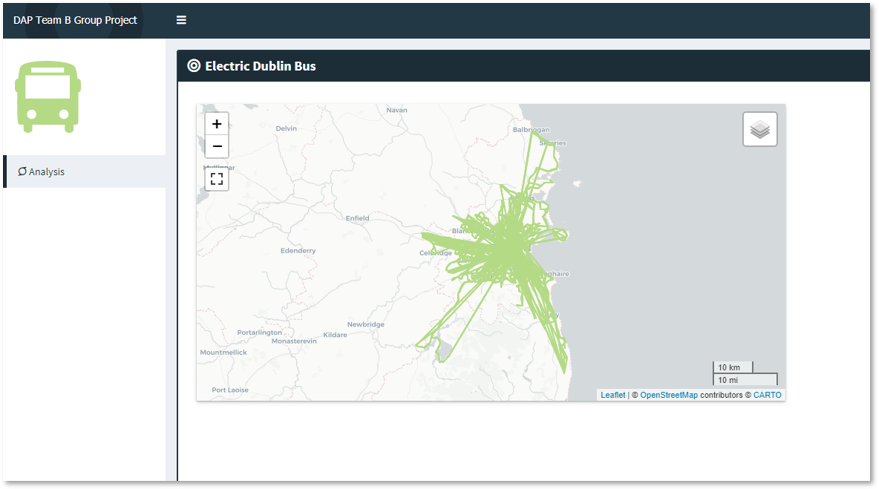
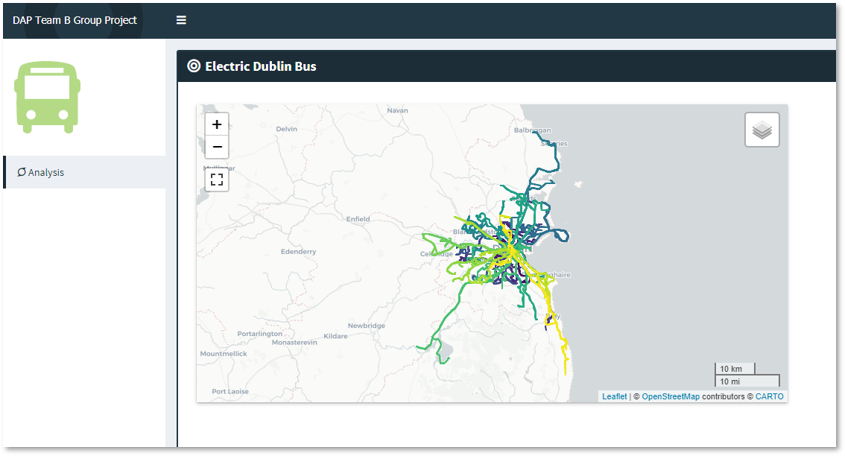
Add each shape to the map in a loop (slower but good for later expanded use)

diff --git a/README.md b/README.md
@@ -1,4 +1,4 @@
-## dapTbElectricDublinBus
+## dapTbElectricBus
 
 Visualization of factors affecting the feasibility of transitioning the Dublin Bus network to electric buses.
 
